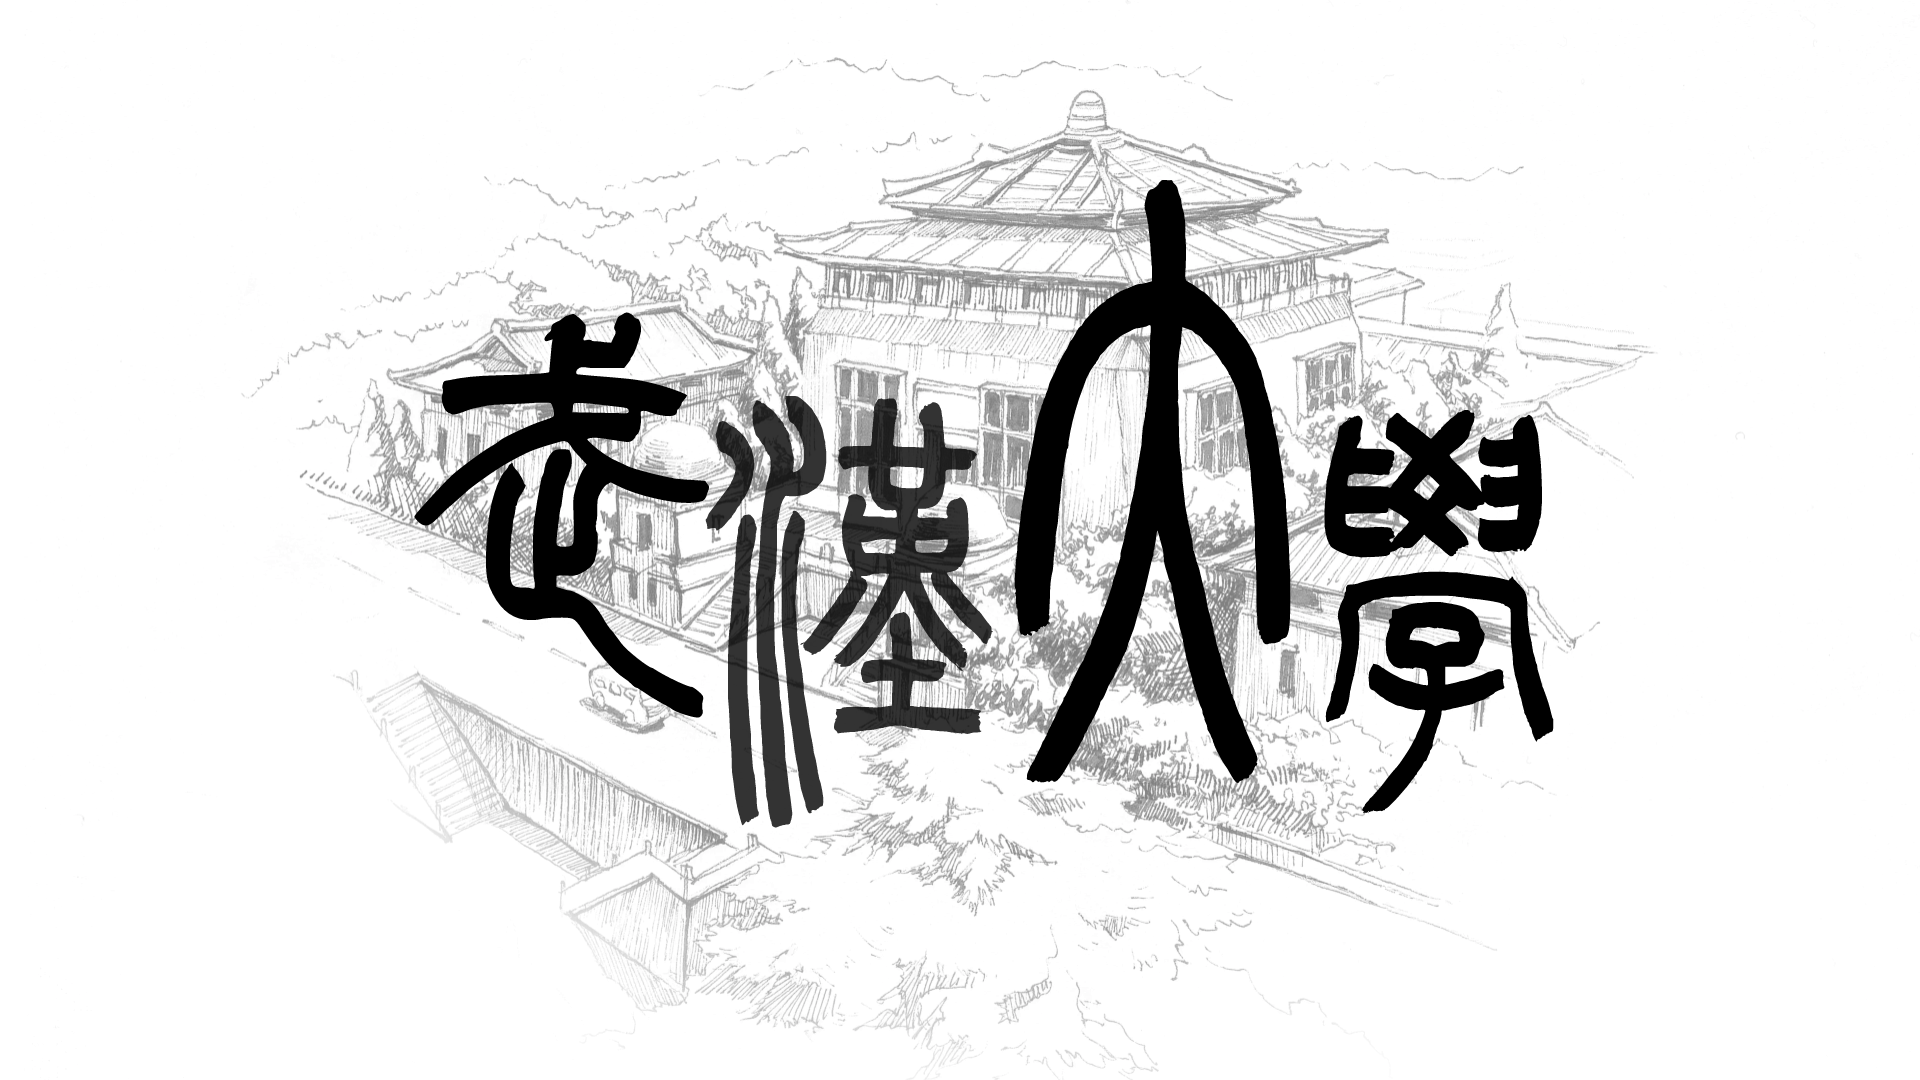
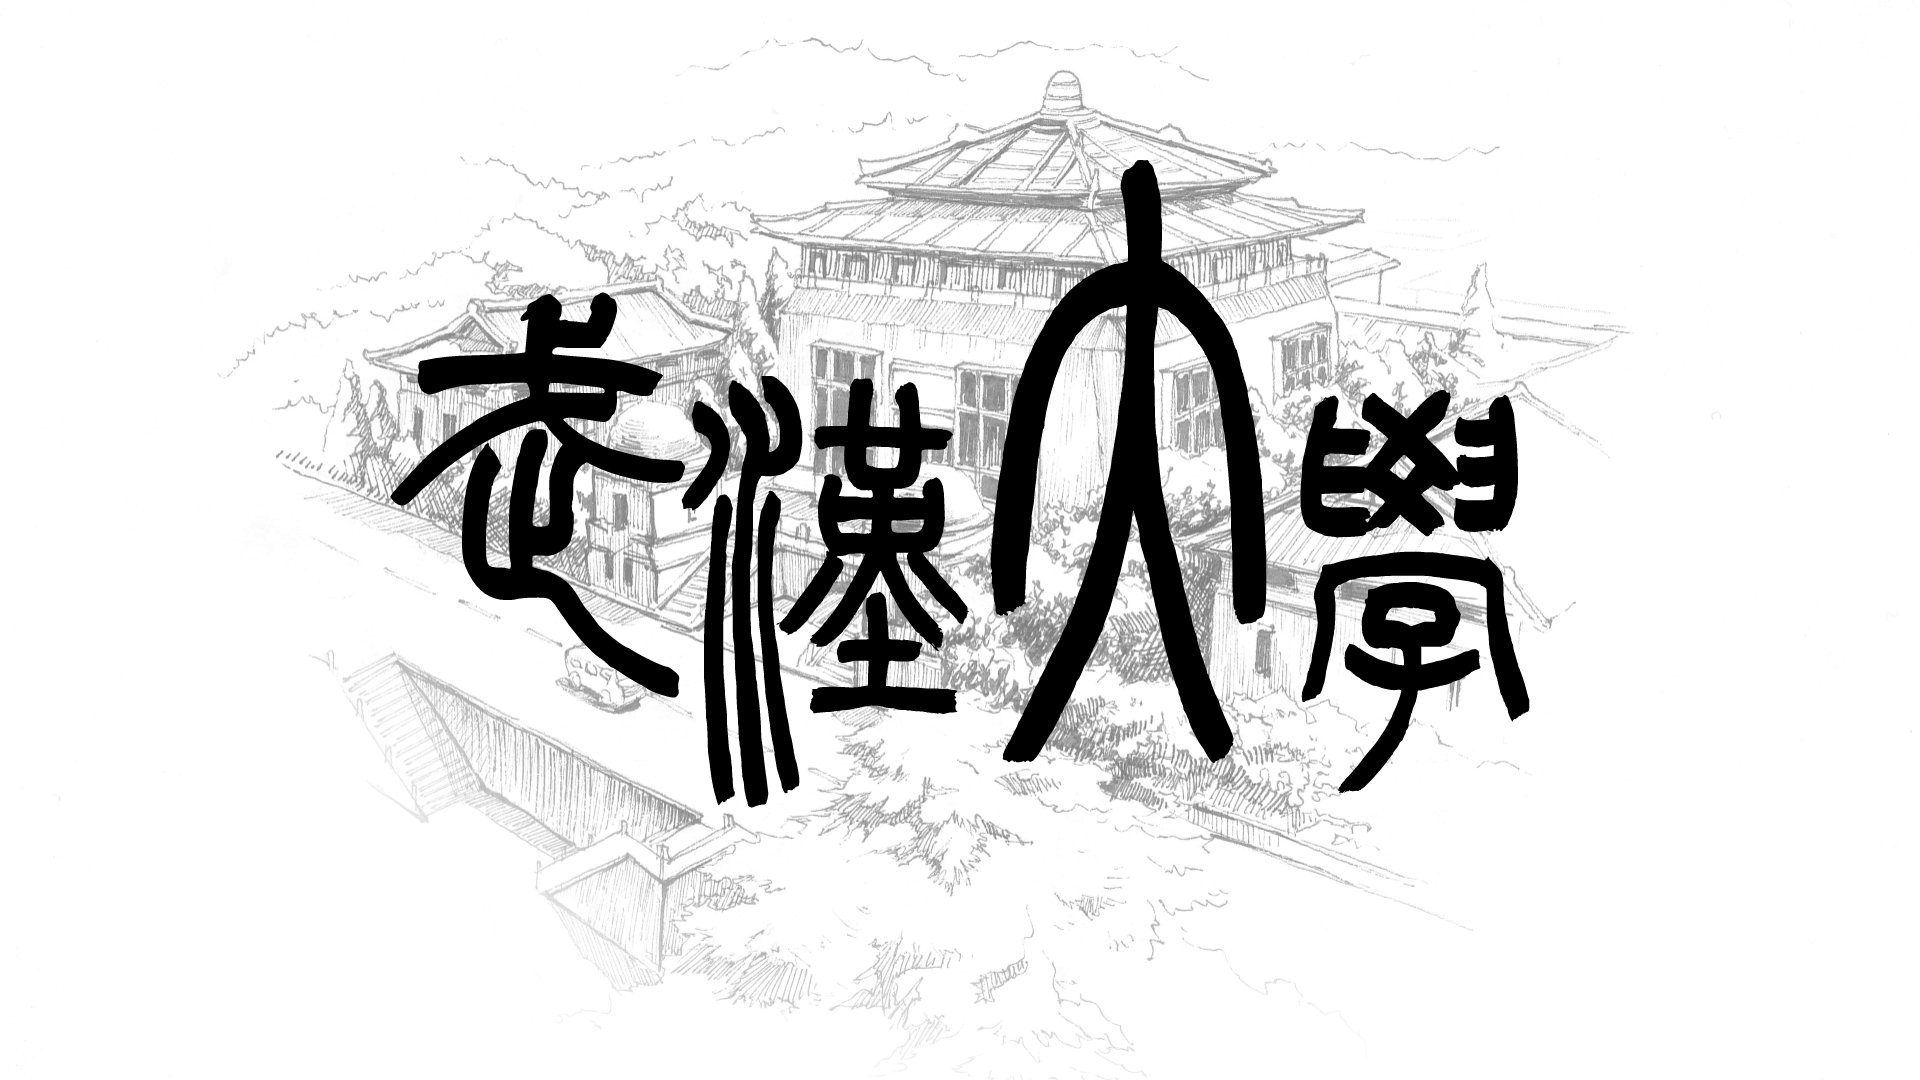
feat: 补充首页和时间线页彩色效果

Changed region(s): [[0.1562, 0.0611, 0.8438, 0.9778], [0.5625, 0.825, 0.625, 0.8861]]

diff --git a/pages/index.vue b/pages/index.vue
@@ -3,6 +3,7 @@
     <div class="mask"></div>
     <img class="title" src="/source/PageIndex/title.png" />
     <img class="draw" src="/source/PageIndex/Draw.png" />
+    <img class="title-colored" src="/source/PageIndex/title-colored.png" v-show="allActived" />
     <div ref="textRef" class="text" @click="goto"> 滚动以开始</div>
   </div>
 </template>
@@ -22,9 +23,15 @@ const changeRoute = async (e) => {
   isChange = true;
 };
 
+const allActived = ref(false);
+
 onActivated(() => {
   isChange = false;
   window.addEventListener("wheel", changeRoute);
+  if (localStorage.getItem("storys")) {
+    let storys = JSON.parse(localStorage.getItem("storys"));
+    allActived.value = storys.every((story) => story.isActived);
+  }
 });
 
 onDeactivated(() => {
@@ -58,7 +65,6 @@ const goto = async () => {
 }
 
 .title {
-  height: 100%;
   object-fit: cover;
   z-index: -1;
   /* 定义动画时间和类型 */
@@ -273,6 +279,23 @@ const goto = async () => {
 
   100% {
     transform: translateX(100%);
+  }
+}
+
+.title-colored {
+  position: absolute;
+  animation: popIn 1.5s forwards ease-in-out;
+  animation-delay: 6s;
+  opacity: 0;
+}
+
+@keyframes popIn {
+  0% {
+    opacity: 0;
+  }
+
+  100% {
+    opacity: 1;
   }
 }
 </style>

diff --git a/pages/storys.vue b/pages/storys.vue
@@ -1,6 +1,7 @@
 <template>
   <div class="storys">
-    <img class="bgImg" src="/source/PageTImeline/BackGroundUnColored.png" />
+    <img v-show="!allActived" class="bgImg" src="/source/PageTImeline/BackGroundUnColored.png" />
+    <img v-show="allActived" class="bgImg" src="/source/PageTImeline/BackGroundColored.jpg" />
     <StorysBox class="storysBox" ref="storysBox" :storys="storys" @choose-story="onChooseStory"></StorysBox>
   </div>
 </template>
@@ -38,6 +39,8 @@ const storys = ref([
   },
 ]);
 
+const allActived = ref(false);
+
 const onChooseStory = async (id) => {
   storys.value[id].isActived = true;
   if (id + 1 < storys.value.length) storys.value[id + 1].islocked = false;
@@ -51,6 +54,8 @@ onActivated(() => {
   if (localStorage.getItem("storys")) {
     storys.value = JSON.parse(localStorage.getItem("storys"));
   }
+  allActived.value = storys.value.every((story) => story.isActived);
+  console.log('allActived', allActived.value);
 });
 </script>
 <style scoped>
@@ -65,6 +70,7 @@ onActivated(() => {
     width: auto;
     right: 0;
     z-index: -1;
+    mask: linear-gradient(90deg, transparent, #fff);
   }
 
   .storysBox {
